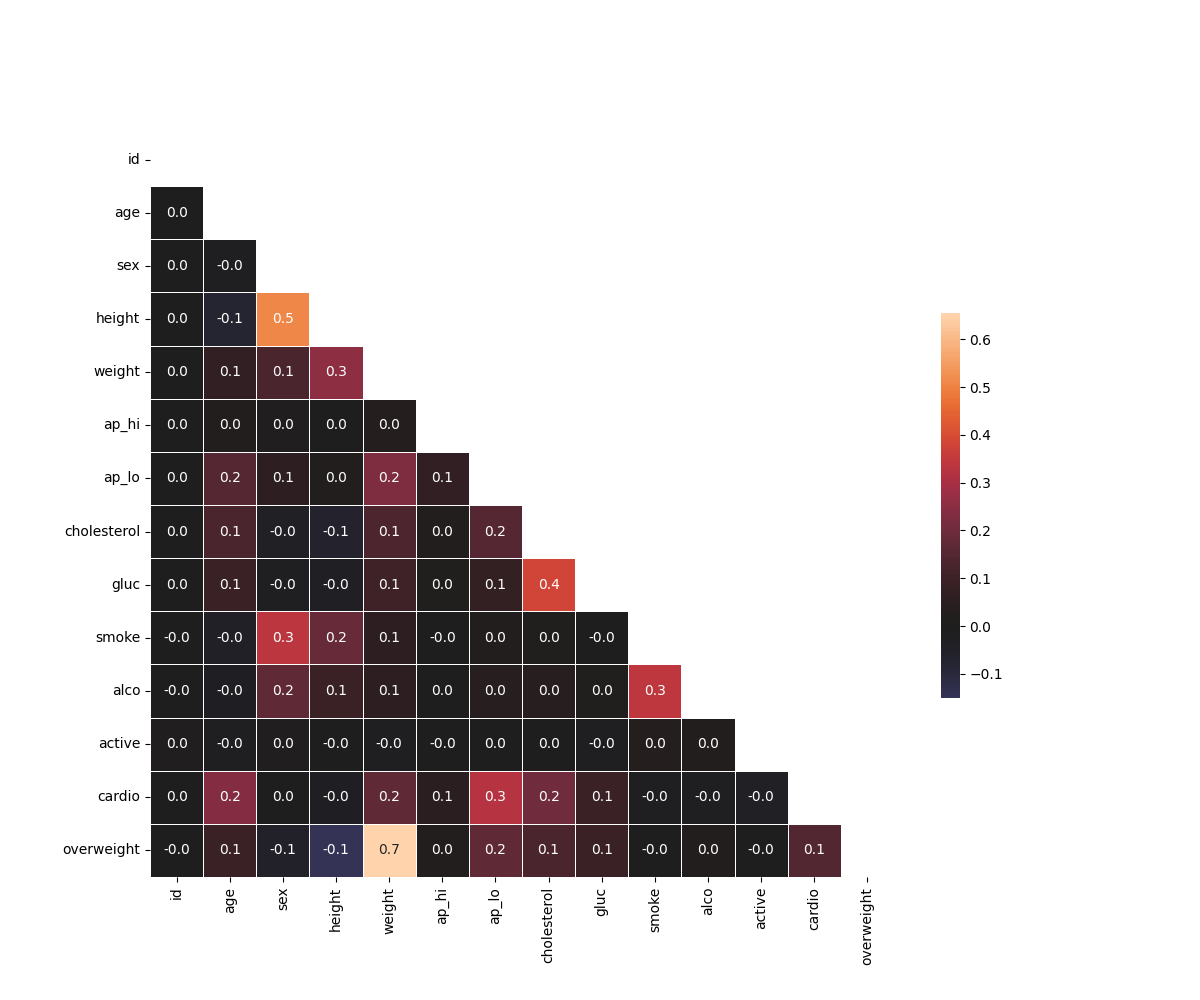
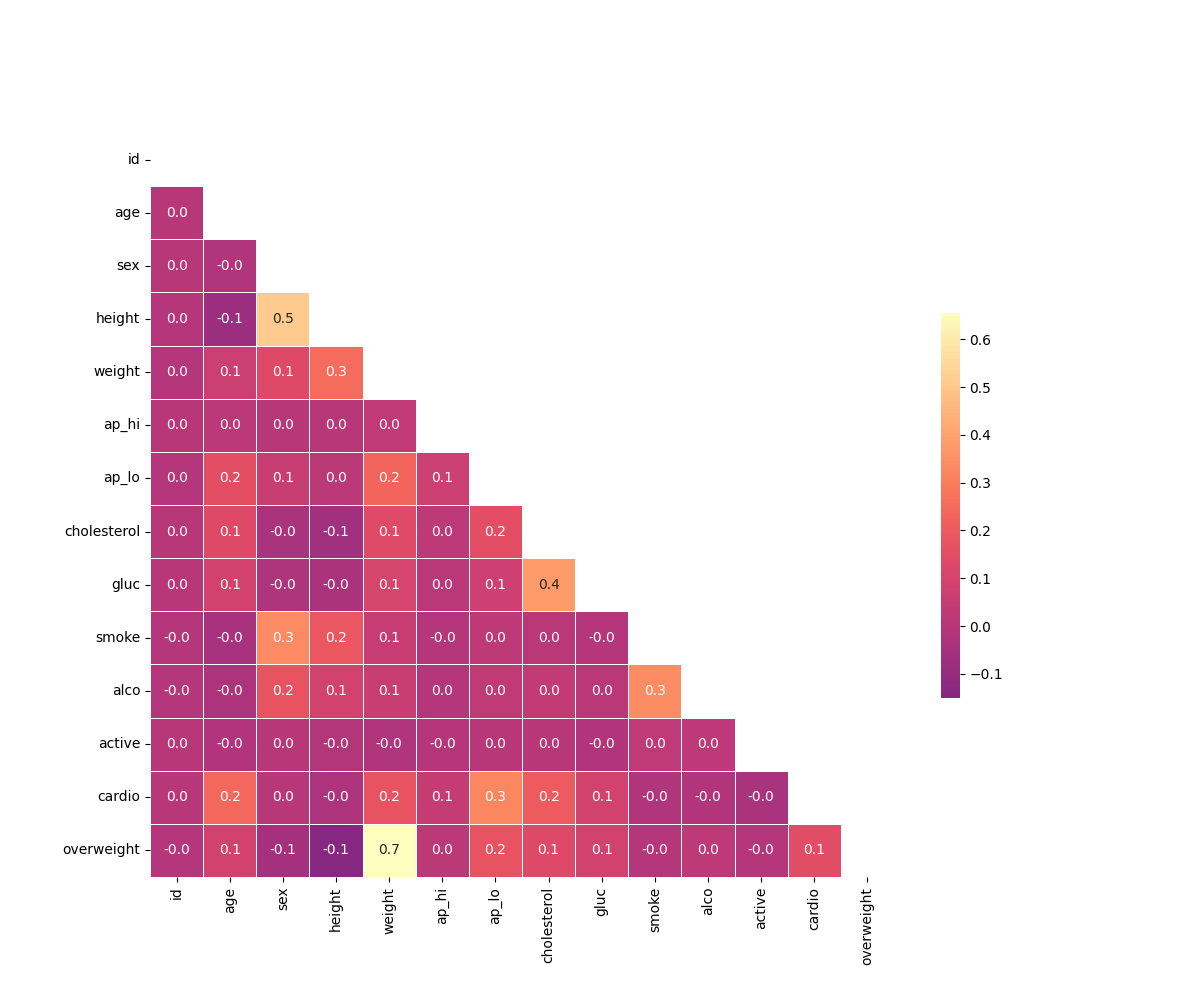
feat: "arruma mapa de calor"

Changed region(s): [[0.1233, 0.186, 0.7092, 0.899], [0.7708, 0.31, 0.8017, 0.713]]

diff --git a/medical_data_visualizer.py b/medical_data_visualizer.py
@@ -96,7 +96,8 @@ def draw_heat_map():
         center=0,
         linewidths=0.5,
         cbar_kws={"shrink": 0.5},
-        ax=ax
+        ax=ax,
+        cmap="magma"         # cores do mapa de calor
     )
 
     # 16
